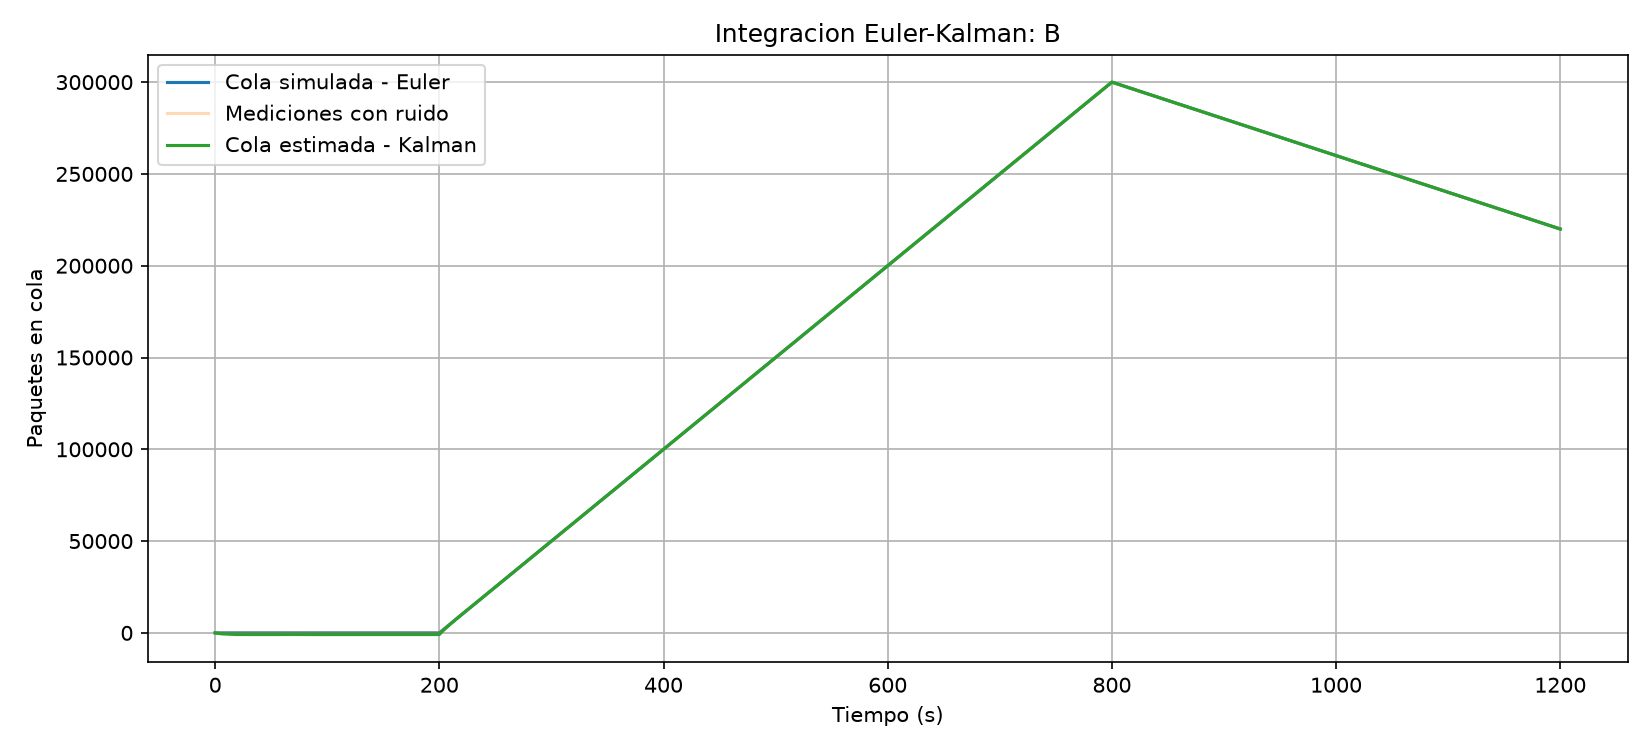
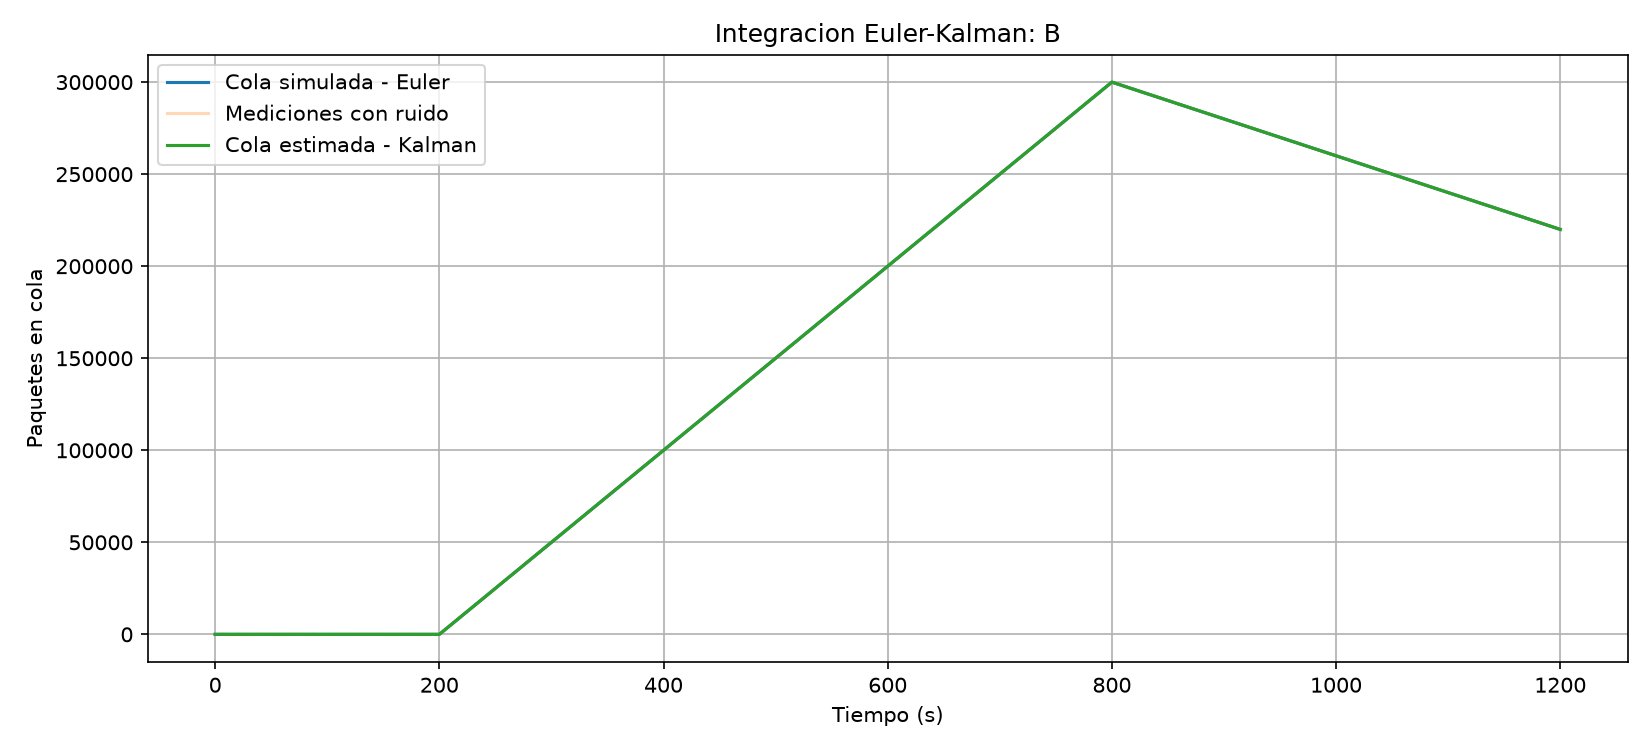
Validar Kalman y comparar escenarios Euler

diff --git a/escenarios/resumen_experimentos.py b/escenarios/resumen_experimentos.py
@@ -1,0 +1,98 @@
+import csv
+from pathlib import Path
+import numpy as np
+
+from euler.euler import modelo_euler
+from modelos.kalman import estimar_cola
+
+
+def metricas(real, estimado):
+    error = estimado - real
+    mae = np.mean(np.abs(error))
+    rmse = np.sqrt(np.mean(error ** 2))
+    return mae, rmse
+
+
+def ejecutar():
+    dt = 1.0
+    n = 1200
+    tiempo = np.arange(n) * dt
+
+    moderado = np.full(n, 800.0)
+    pico = moderado.copy()
+
+    pico[(tiempo >= 200) & (tiempo < 800)] = 1500.0
+
+    escenarios = {
+        "A": (moderado, 1000.0, None),
+        "B": (pico, 1000.0, None),
+        "C": (moderado, 600.0, None),
+        "B_buffer": (pico, 1000.0, 100000.0)
+    }
+
+    generador = np.random.default_rng(42)
+    filas = []
+
+    for nombre, (llegadas, capacidad, buffer) in escenarios.items():
+
+        resultado = modelo_euler(
+            llegadas, capacidad,
+            dt=dt, buffer_max=buffer
+        )
+
+        real = resultado["cola"]
+
+        mediciones = real + generador.normal(
+            0, 50, len(real)
+        )
+
+        estimado, sigma = estimar_cola(
+            llegadas, mediciones, capacidad,
+            dt=dt, Q=100, R=2500,
+            buffer_max=buffer
+        )
+
+        mae_med, _ = metricas(real, mediciones)
+        mae_k, rmse_k = metricas(real, estimado)
+
+        cobertura = 100 * np.mean(
+            np.abs(estimado - real) <= 1.96 * sigma
+        )
+
+        fila = {
+            "Escenario": nombre,
+            "Cola maxima": round(np.max(real), 2),
+            "Perdidas": round(
+                np.sum(resultado["perdidas"]), 2
+            ),
+            "MAE mediciones": round(mae_med, 2),
+            "MAE Kalman": round(mae_k, 2),
+            "RMSE Kalman": round(rmse_k, 2),
+            "Cobertura aproximada %": round(cobertura, 2)
+        }
+
+        filas.append(fila)
+
+        print(f"\nEscenario: {nombre}")
+        for clave, valor in fila.items():
+            print(f"{clave}: {valor}")
+
+    carpeta = Path("resultados")
+    carpeta.mkdir(exist_ok=True)
+
+    with open(
+        carpeta / "resumen_euler_kalman.csv",
+        "w", newline="", encoding="utf-8"
+    ) as archivo:
+
+        escritor = csv.DictWriter(
+            archivo, fieldnames=filas[0].keys()
+        )
+        escritor.writeheader()
+        escritor.writerows(filas)
+
+    print("\nResumen guardado correctamente.")
+
+
+if __name__ == "__main__":
+    ejecutar()

diff --git a/modelos/kalman.py b/modelos/kalman.py
@@ -1,9 +1,10 @@
-
 import numpy as np
 from filterpy.kalman import KalmanFilter
 
+
 def estimar_cola(llegadas, mediciones, mu,
-                 dt=1.0, Q=100.0, R=2500.0):
+                 dt=1.0, Q=100.0, R=2500.0,
+                 buffer_max=None):
 
     llegadas = np.asarray(llegadas, dtype=float)
     mediciones = np.asarray(mediciones, dtype=float)
@@ -12,17 +13,29 @@ def estimar_cola(llegadas, mediciones, mu,
         raise ValueError("Las entradas deben ser vectores.")
 
     if len(llegadas) == 0 or len(mediciones) not in (
-    len(llegadas), len(llegadas) + 1
+        len(llegadas), len(llegadas) + 1
     ):
-        raise ValueError(
-            "Se requieren N o N+1 mediciones para N llegadas."
-         )    
+        raise ValueError("Longitud de series incompatible.")
 
-    if dt <= 0 or mu <= 0 or Q < 0 or R <= 0:
-        raise ValueError("Parametros invalidos.")
+    if not np.all(np.isfinite(llegadas)):
+        raise ValueError("Llegadas invalidas.")
+
+    if not np.all(np.isfinite(mediciones)):
+        raise ValueError("Mediciones invalidas.")
+
+    if np.any(llegadas < 0) or mu <= 0 or dt <= 0:
+        raise ValueError("Parametros de red invalidos.")
+
+    if Q < 0 or R <= 0:
+        raise ValueError("Parametros Q o R invalidos.")
+
+    if buffer_max is not None and buffer_max <= 0:
+        raise ValueError("Buffer invalido.")
+
+    limite = np.inf if buffer_max is None else buffer_max
 
     filtro = KalmanFilter(dim_x=1, dim_z=1, dim_u=1)
-    
+
     filtro.x = np.array([[0.0]])
     filtro.P = np.array([[10000.0]])
 
@@ -38,12 +51,26 @@ def estimar_cola(llegadas, mediciones, mu,
 
     for k in range(len(mediciones)):
 
+        # Prediccion del estado
         if k > 0:
             flujo_neto = llegadas[k - 1] - mu
-            filtro.predict(u=np.array([[flujo_neto]]))
+
+            filtro.predict(
+                u=np.array([[flujo_neto]])
+            )
+
+            # Restriccion fisica del buffer
+            filtro.x[0, 0] = np.clip(
+                filtro.x[0, 0], 0, limite
+            )
 
         # Correccion con la medicion
         filtro.update(float(mediciones[k]))
+
+        # Proyeccion a un estado fisicamente valido
+        filtro.x[0, 0] = np.clip(
+            filtro.x[0, 0], 0, limite
+        )
 
         estimaciones[k] = filtro.x[0, 0]
         incertidumbre[k] = np.sqrt(filtro.P[0, 0])

diff --git a/escenarios/integracion_euler_kalman.py b/escenarios/integracion_euler_kalman.py
@@ -60,7 +60,8 @@ for nombre, (llegadas, capacidad, buffer) in escenarios.items():
         capacidad,
         dt=dt,
         Q=100,
-        R=2500
+        R=2500,
+        buffer_max=buffer
     )
 
     # 4. Evaluar los errores
